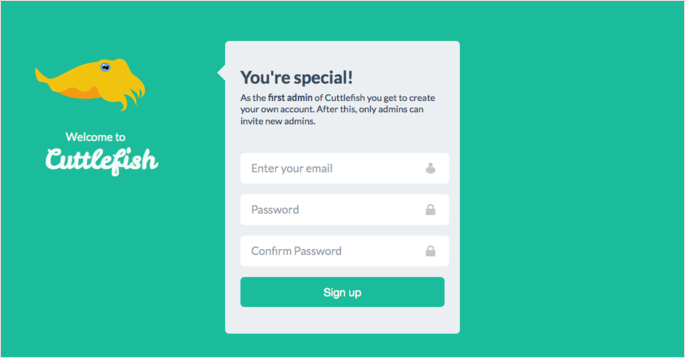
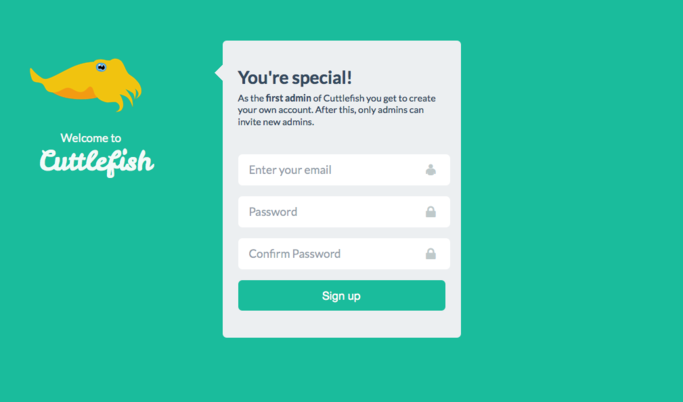
Remove the one pixel border on the screenshots

diff --git a/spec/features/screenshot_feature.rb b/spec/features/screenshot_feature.rb
@@ -8,8 +8,8 @@ describe "getting a bunch of screenshots", js: true do
     page.save_screenshot(path)
     i = Magick::ImageList.new(path)
     small = i.resize_to_fit(1024 / 1.5, 2000)
-    s2 = small.border(1, 1, "gainsboro")
-    s2.write(path)
+    #s2 = small.border(1, 1, "gainsboro")
+    small.write(path)
     #exec("open #{path}")
   end
 
